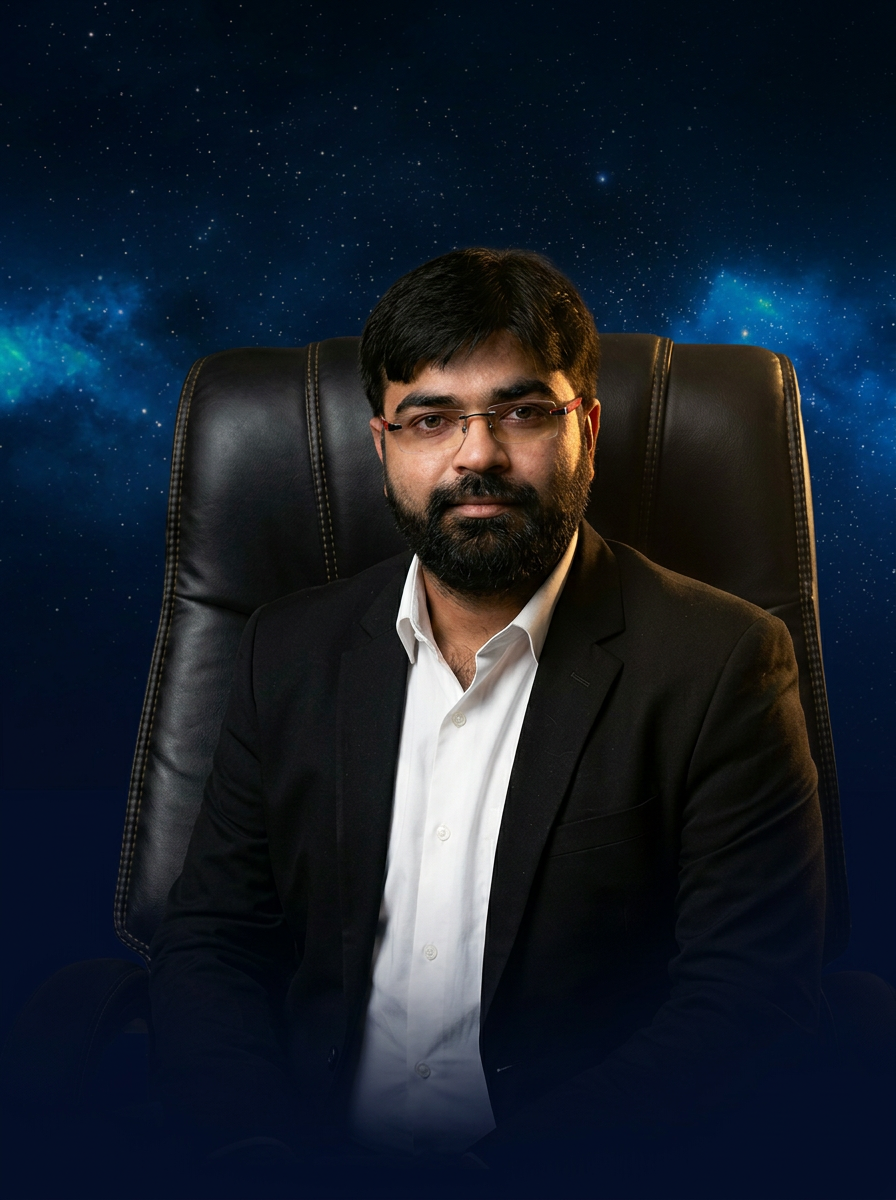
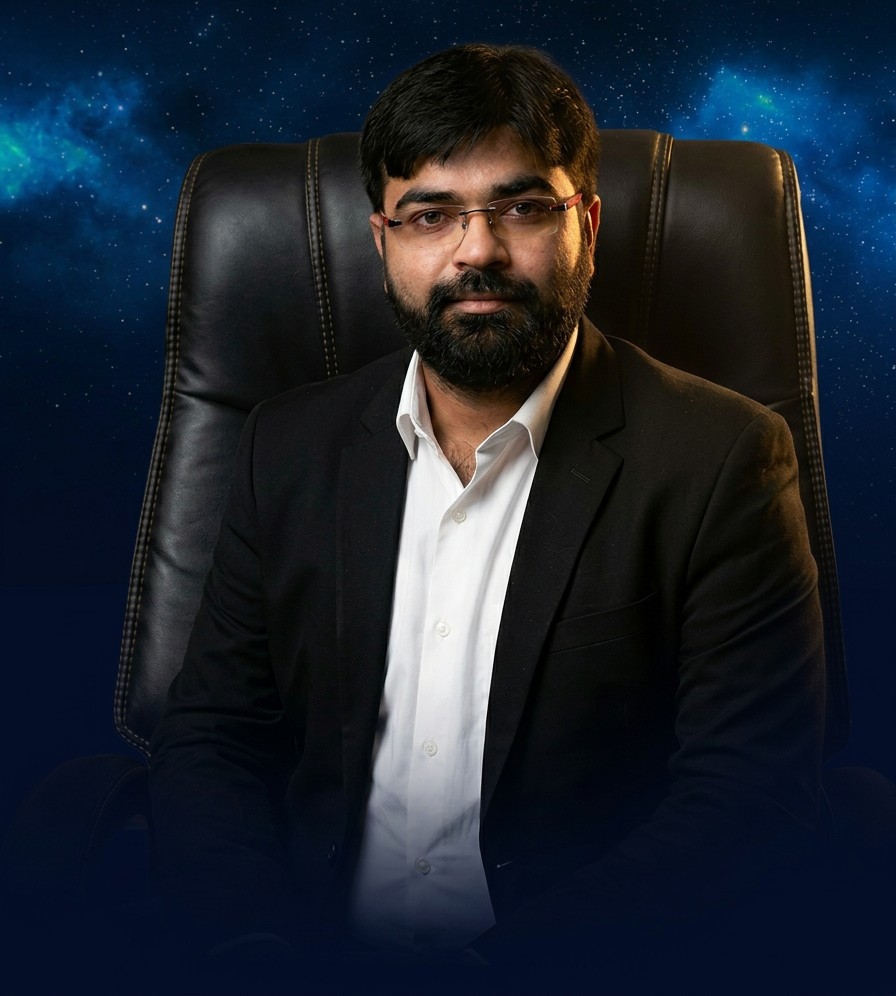
feat: add responsive Hero and About sections with GSAP animations and assets

diff --git a/src/components/site/Hero.tsx b/src/components/site/Hero.tsx
@@ -2,7 +2,7 @@ import { useEffect, useRef } from "react";
 import gsap from "gsap";
 import { Sparkles, MessageCircle, Star } from "lucide-react";
 import astrologerImg from "@/assets/astrologer-hero.jpg";
-import astrologerMobileImg from "@/assets/astrologer-hero-mobile.jpg";
+import astrologerCenteredImg from "@/assets/astrologer-hero-mobile.jpg";
 
 const WHATSAPP = "https://wa.me/919999999999?text=Hello%2C%20I%20would%20like%20to%20book%20a%20consultation.";
 
@@ -15,7 +15,6 @@ const Hero = () => {
       tl.from(".hero-badge", { y: 20, opacity: 0, duration: 0.7 })
         .from(".hero-title-line", { y: 50, opacity: 0, duration: 0.9, stagger: 0.15 }, "-=0.4")
         .from(".hero-sub", { y: 20, opacity: 0, duration: 0.7 }, "-=0.5")
-        .from(".hero-cta", { y: 20, opacity: 0, duration: 0.6, stagger: 0.12 }, "-=0.4")
         .from(".hero-trust", { y: 20, opacity: 0, duration: 0.6 }, "-=0.3")
         .from(".hero-image", { scale: 1.1, opacity: 0, duration: 1.4, ease: "power2.out" }, 0);
 
@@ -73,43 +72,46 @@ const Hero = () => {
 
       {/* ===== Mobile / tablet stacked layout (below lg) ===== */}
       <div className="lg:hidden relative z-10 pt-20 pb-10">
-        <div className="hero-image relative mx-auto w-full max-w-md aspect-[7/10]">
+        {/* Full-width image with blended edges */}
+        <div className="hero-image relative mx-auto w-full aspect-[4/5] overflow-hidden">
           <img
-            src={astrologerMobileImg}
+            src={astrologerCenteredImg}
             alt="Astrologer Pandit Pradeep Ji"
-            className="w-full h-full object-contain object-center"
+            className="w-full h-full object-cover object-[center_15%]"
             loading="eager"
           />
-          {/* Seamless blend into navy background */}
-          <div className="absolute inset-x-0 bottom-0 h-1/3 bg-gradient-to-t from-navy-deep via-navy-deep/70 to-transparent pointer-events-none" />
-          <div className="absolute inset-y-0 left-0 w-1/4 bg-gradient-to-r from-navy-deep/80 to-transparent pointer-events-none" />
-          <div className="absolute inset-y-0 right-0 w-1/4 bg-gradient-to-l from-navy-deep/80 to-transparent pointer-events-none" />
-        </div>
-
-        <div className="container mt-10 text-center">
-          <div className="hero-badge inline-flex items-center gap-2 px-4 py-2 rounded-full bg-gold/15 border border-gold/40 backdrop-blur-md">
+          {/* Intense Edge Blending Gradients - All 4 sides */}
+          <div className="absolute inset-x-0 top-0 h-1/4 bg-gradient-to-b from-navy-deep via-navy-deep/60 to-transparent pointer-events-none" />
+          <div className="absolute inset-x-0 bottom-0 h-1/2 bg-gradient-to-t from-navy-deep via-navy-deep/80 to-transparent pointer-events-none" />
+          <div className="absolute inset-y-0 left-0 w-1/4 bg-gradient-to-r from-navy-deep to-transparent pointer-events-none" />
+          <div className="absolute inset-y-0 right-0 w-1/4 bg-gradient-to-l from-navy-deep to-transparent pointer-events-none" />
+          
+          {/* Badge (floating above the transition) */}
+          <div className="absolute bottom-6 left-1/2 -translate-x-1/2 hero-badge inline-flex items-center gap-2 px-4 py-2 rounded-full bg-navy-deep/40 border border-gold/30 backdrop-blur-md whitespace-nowrap z-20">
             <span className="w-1.5 h-1.5 rounded-full bg-gold animate-pulse" />
             <span className="text-[10px] tracking-[0.25em] uppercase text-gold font-semibold">
               Trusted Vedic Astrologer
             </span>
           </div>
+        </div>
+
+        <div className="container mt-4 text-center">
 
           <h1 className="mt-6 font-serif leading-[1.05] text-ivory">
-            <span className="hero-title-line block text-4xl sm:text-5xl font-medium">Discover Your</span>
-            <span className="hero-title-line block text-5xl sm:text-6xl italic text-gradient-gold mt-2 font-medium">
-              Cosmic Path
+            <span className="hero-title-line block text-4xl sm:text-5xl font-medium">Align Your Life</span>
+            <span className="hero-title-line block text-4xl sm:text-5xl text-gradient-gold mt-2 font-medium">
+              With Cosmic Forces
             </span>
           </h1>
 
           <p className="hero-sub mt-5 text-base text-ivory/75 max-w-md mx-auto leading-relaxed">
-            Unlock the secrets of your birth chart with personalized Vedic astrology
-            consultations. Guidance for love, career, health & spiritual growth.
+            Personalized astrology consultations by Pradeep Malhotra Ji, crafted to reveal your true path and unlock powerful opportunities in your life.
           </p>
 
           <div className="mt-8 flex flex-col sm:flex-row gap-3 justify-center">
             <a
               href="#contact"
-              className="hero-cta inline-flex items-center justify-center gap-2 px-7 py-3.5 rounded-full bg-gold-gradient text-navy-deep font-semibold shadow-gold hover:shadow-gold-lg transition-all"
+              className="hero-cta hero-cta-mobile inline-flex items-center justify-center gap-2 px-7 py-3.5 rounded-full bg-gold-gradient text-navy-deep font-semibold shadow-gold hover:shadow-gold-lg transition-all"
             >
               <Sparkles className="w-4 h-4" />
               Book Now
@@ -118,7 +120,7 @@ const Hero = () => {
               href={WHATSAPP}
               target="_blank"
               rel="noreferrer"
-              className="hero-cta inline-flex items-center justify-center gap-2 px-7 py-3.5 rounded-full border border-gold/40 text-ivory hover:bg-gold/10 hover:border-gold transition-all backdrop-blur-md bg-navy-deep/30"
+              className="hero-cta hero-cta-mobile inline-flex items-center justify-center gap-2 px-7 py-3.5 rounded-full border border-gold/40 text-ivory hover:bg-gold/10 hover:border-gold transition-all backdrop-blur-md bg-navy-deep/30"
             >
               <MessageCircle className="w-5 h-5 text-gold" />
               WhatsApp
@@ -143,8 +145,8 @@ const Hero = () => {
       </div>
 
       {/* ===== Desktop content (lg+ only) ===== */}
-      <div className="hidden lg:flex container relative z-10 pt-44 pb-32 min-h-screen items-center">
-        <div className="max-w-2xl">
+      <div className="hidden lg:flex container relative z-20 pt-32 pb-20 min-h-screen items-center">
+        <div className="max-w-2xl relative z-30">
           <div className="hero-badge inline-flex items-center gap-2 px-4 py-2 rounded-full bg-gold/15 border border-gold/40 backdrop-blur-md">
             <span className="w-1.5 h-1.5 rounded-full bg-gold animate-pulse" />
             <span className="text-xs tracking-[0.25em] uppercase text-gold font-semibold">
@@ -153,21 +155,20 @@ const Hero = () => {
           </div>
 
           <h1 className="mt-7 font-serif leading-[1.05] text-ivory">
-            <span className="hero-title-line block text-6xl lg:text-7xl font-medium">Discover Your</span>
-            <span className="hero-title-line block text-7xl lg:text-8xl italic text-gradient-gold mt-2 font-medium">
-              Cosmic Path
+            <span className="hero-title-line block text-6xl lg:text-7xl font-medium">Align Your Life</span>
+            <span className="hero-title-line block text-6xl lg:text-7xl text-gradient-gold mt-2 font-medium">
+              With Cosmic Forces
             </span>
           </h1>
 
           <p className="hero-sub mt-7 text-lg text-ivory/75 max-w-xl leading-relaxed">
-            Unlock the secrets of your birth chart with personalized Vedic astrology
-            consultations. Guidance for love, career, health & spiritual growth.
+            Personalized astrology consultations by Pradeep Malhotra Ji, crafted to reveal your true path and unlock powerful opportunities in your life.
           </p>
 
-          <div className="mt-10 flex flex-col sm:flex-row gap-4">
+          <div className="hero-cta-container mt-10 flex flex-col sm:flex-row gap-4 relative z-50">
             <a
               href="#contact"
-              className="hero-cta group inline-flex items-center justify-center gap-2 px-8 py-4 rounded-full bg-gold-gradient text-navy-deep font-semibold shadow-gold hover:shadow-gold-lg hover:-translate-y-0.5 transition-all"
+              className="hero-cta hero-cta-desktop group inline-flex items-center justify-center gap-2 px-8 py-4 rounded-full bg-gold-gradient text-navy-deep font-semibold shadow-gold hover:shadow-gold-lg hover:-translate-y-0.5 transition-all relative z-50 opacity-100"
             >
               <Sparkles className="w-4 h-4" />
               Book My Consultation
@@ -176,7 +177,7 @@ const Hero = () => {
               href={WHATSAPP}
               target="_blank"
               rel="noreferrer"
-              className="hero-cta inline-flex items-center justify-center gap-2 px-8 py-4 rounded-full border border-gold/40 text-ivory hover:bg-gold/10 hover:border-gold transition-all backdrop-blur-md bg-navy-deep/30"
+              className="hero-cta hero-cta-desktop inline-flex items-center justify-center gap-2 px-8 py-4 rounded-full border border-gold/40 text-ivory hover:bg-gold/10 hover:border-gold transition-all backdrop-blur-md bg-navy-deep/30 relative z-50 opacity-100"
             >
               <MessageCircle className="w-5 h-5 text-gold" />
               Chat on WhatsApp

diff --git a/src/components/site/About.tsx b/src/components/site/About.tsx
@@ -19,18 +19,24 @@ const About = () => {
     const ctx = gsap.context(() => {
       gsap.fromTo(".about-image",
         { x: -60, opacity: 0 },
-        { x: 0, opacity: 1, duration: 1, ease: "power3.out",
-          scrollTrigger: { trigger: ref.current, start: "top 80%", toggleActions: "play none none none" } }
+        {
+          x: 0, opacity: 1, duration: 1, ease: "power3.out",
+          scrollTrigger: { trigger: ref.current, start: "top 80%", toggleActions: "play none none none" }
+        }
       );
       gsap.fromTo(".about-text > *",
         { y: 30, opacity: 0 },
-        { y: 0, opacity: 1, duration: 0.8, stagger: 0.12, ease: "power3.out",
-          scrollTrigger: { trigger: ref.current, start: "top 80%", toggleActions: "play none none none" } }
+        {
+          y: 0, opacity: 1, duration: 0.8, stagger: 0.12, ease: "power3.out",
+          scrollTrigger: { trigger: ref.current, start: "top 80%", toggleActions: "play none none none" }
+        }
       );
       gsap.fromTo(".about-stat",
         { y: 40, opacity: 0 },
-        { y: 0, opacity: 1, duration: 0.7, stagger: 0.15, ease: "back.out(1.4)",
-          scrollTrigger: { trigger: ".about-stats", start: "top 90%", toggleActions: "play none none none" } }
+        {
+          y: 0, opacity: 1, duration: 0.7, stagger: 0.15, ease: "back.out(1.4)",
+          scrollTrigger: { trigger: ".about-stats", start: "top 90%", toggleActions: "play none none none" }
+        }
       );
       ScrollTrigger.refresh();
     }, ref);
@@ -59,7 +65,7 @@ const About = () => {
           </div>
         </div>
 
-        {/* Text */}
+
         <div className="about-text">
           <div className="inline-flex items-center gap-2 px-4 py-2 rounded-full bg-gold/10 border border-gold/30">
             <div className="w-1.5 h-1.5 rounded-full bg-gold" />

diff --git a/tailwind.config.ts b/tailwind.config.ts
@@ -14,8 +14,8 @@ export default {
     },
     extend: {
       fontFamily: {
-        serif: ['"Cormorant Garamond"', "serif"],
-        sans: ['Inter', 'system-ui', 'sans-serif'],
+        serif: ['"Playfair Display"', "serif"],
+        sans: ['Outfit', 'system-ui', 'sans-serif'],
       },
       colors: {
         border: "hsl(var(--border))",

diff --git a/src/components/site/Booking.tsx b/src/components/site/Booking.tsx
@@ -51,7 +51,7 @@ const Booking = () => {
             <span className="text-xs tracking-[0.2em] uppercase text-navy/70 font-medium">Book Consultation</span>
           </div>
           <h2 className="mt-5 font-serif text-4xl sm:text-5xl lg:text-6xl text-navy leading-[1.1]">
-            Begin Your <span className="italic text-gradient-gold">Spiritual Journey</span>
+            Begin Your <span className="text-gradient-gold">Spiritual Journey</span>
           </h2>
           <div className="gold-divider mx-auto my-7 w-24" />
           <p className="text-muted-foreground text-lg">

diff --git a/src/components/site/Services.tsx b/src/components/site/Services.tsx
@@ -88,7 +88,7 @@ const Services = () => {
             What I Offer
           </span>
           <h2 className="mt-3 font-serif text-4xl sm:text-5xl lg:text-6xl text-navy leading-[1.1]">
-            My <span className="italic text-gradient-gold">Services</span>
+            My <span className="text-gradient-gold">Services</span>
           </h2>
         </div>
 

diff --git a/src/components/site/Testimonials.tsx b/src/components/site/Testimonials.tsx
@@ -76,7 +76,7 @@ const Testimonials = () => {
             <span className="text-xs tracking-[0.2em] uppercase text-gold-soft font-medium">Testimonials</span>
           </div>
           <h2 className="mt-5 font-serif text-4xl sm:text-5xl lg:text-6xl text-ivory leading-[1.1]">
-            Voices of <span className="italic text-gradient-gold">Transformation</span>
+            Voices of <span className="text-gradient-gold">Transformation</span>
           </h2>
           <div className="gold-divider mx-auto my-7 w-24" />
         </div>

diff --git a/src/components/site/WhyUs.tsx b/src/components/site/WhyUs.tsx
@@ -84,7 +84,7 @@ const WhyUs = () => {
             Why Choose Us
           </span>
           <h2 className="mt-3 font-serif text-4xl sm:text-5xl lg:text-6xl text-navy leading-[1.1]">
-            Trusted by <span className="italic text-gradient-gold">Thousands</span>
+            Trusted by <span className="text-gradient-gold">Thousands</span>
           </h2>
         </div>
 

diff --git a/src/index.css b/src/index.css
@@ -1,4 +1,4 @@
-@import url('https://fonts.googleapis.com/css2?family=Cormorant+Garamond:wght@400;500;600;700&family=Inter:wght@300;400;500;600;700&display=swap');
+@import url('https://fonts.googleapis.com/css2?family=Outfit:wght@300;400;500;600;700;800&family=Playfair+Display:ital,wght@0,400..900;1,400..900&display=swap');
 
 @tailwind base;
 @tailwind components;